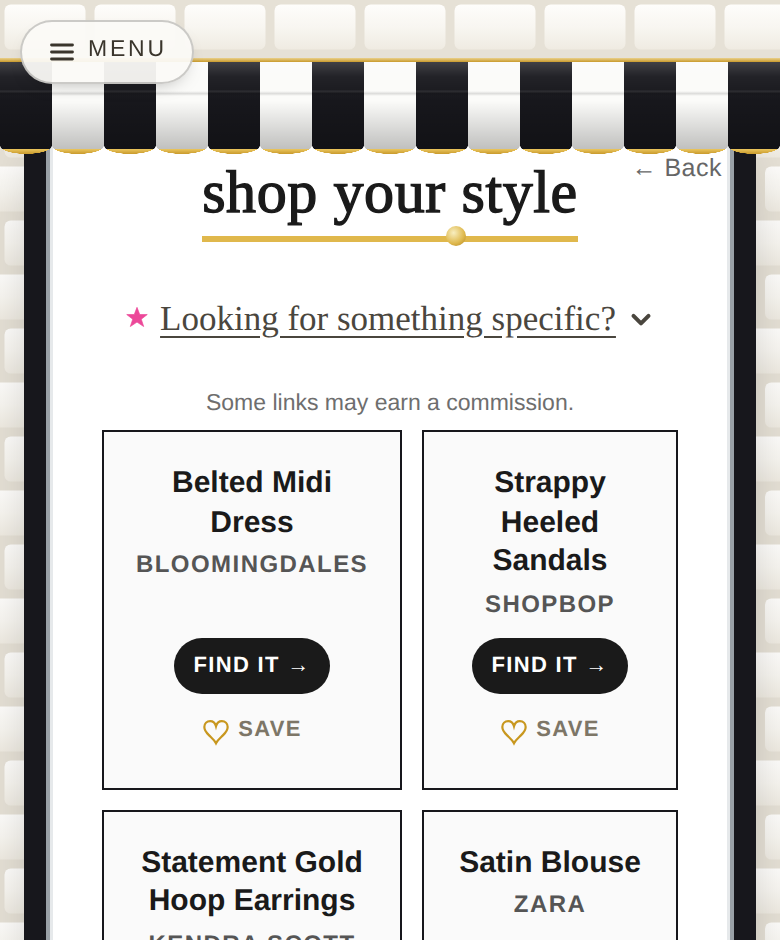
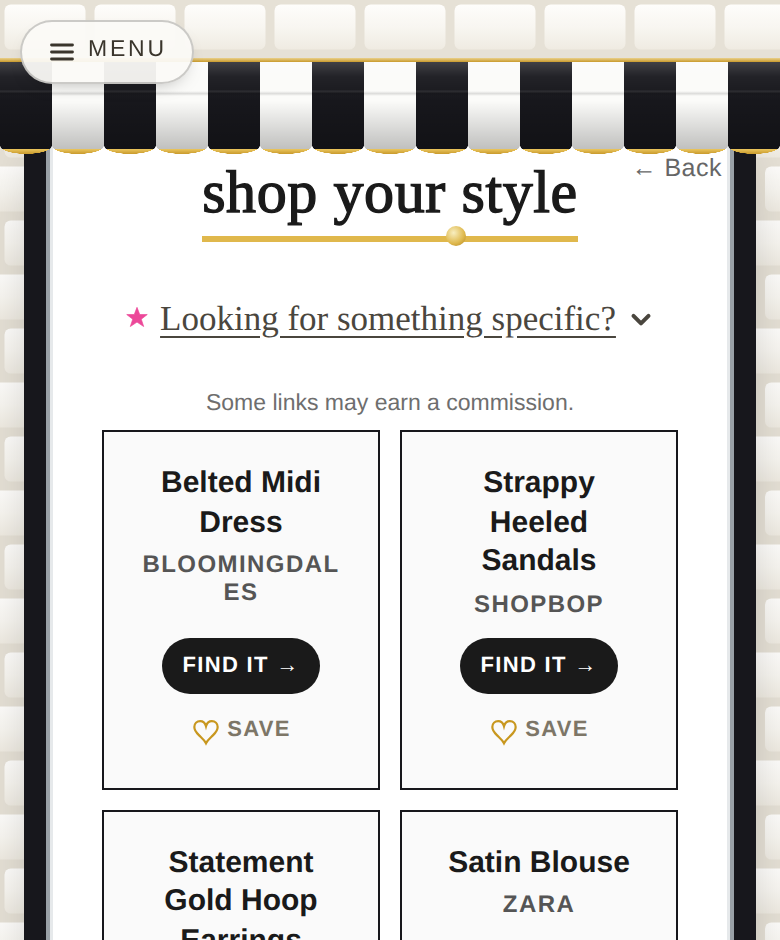
The shop cards are the same width now
Her catch, 2026-08-22: "the two rows of windows are not symmetrical sizing, the
left boxes are larger than the ones on the right."

She was right and it was bigger than it looked. MEASURED before touching
anything: the left column ran 150px against 112.5 to 128px on the right, a 22 to
37.5px difference at EVERY phone width.

CAUSE: .shop-grid used `grid-template-columns:1fr 1fr`, and a bare 1fr carries an
automatic minimum of AUTO. So a column holding a long unbreakable word
(BLOOMINGDALES, "Statement Gold Hoop Earrings") grows past its share and takes
the difference out of its neighbour. minmax(0,1fr) makes the share the real
limit. Now 0.0px difference at 390/375/360/320.

⚠ A REAL LIMIT INTRODUCES A REAL RISK, so it was checked rather than assumed:
once a column can no longer grow, a long retailer name would simply OVERFLOW the
card instead of pushing it wider. .shop-card gets overflow-wrap:anywhere and a
sweep asserts nothing sticks out of its own card, and no sideways page scroll, at
all four widths.

⚠ .shop-grid is SHARED with Complete the Look and the wardrobe Ideas carousels,
so this is not a Shop-your-style-only change. The wardrobe's hscroll variant
overrides display:flex and is unaffected by the columns; the wrap rule is
harmless there. Suites covering those surfaces run green: shopask 87, curated 65,
affq 40, e2e 29.

Still not wired, awaiting her pick: the arrow on "Looking for something specific?"
[…]

diff --git a/index.html b/index.html
@@ -1150,7 +1150,17 @@ html.edit-velvet,html.edit-velvet body{background:#0E7F8C}
 .shop-section{margin:1.5rem 0;text-align:center}
 .shop-title{font-size:20px;font-weight:700;color:#1a1a1a;margin-bottom:4px;font-family:'DM Sans',sans-serif}
 .shop-sub{font-size:15px;color:#444;margin-bottom:1rem;font-weight:500}
-.shop-grid{display:grid;grid-template-columns:1fr 1fr;gap:10px}
+/* ⚠ minmax(0,1fr), NOT 1fr. Her catch 2026-08-22: "the two rows of windows are
+   not symmetrical sizing, the left boxes are larger than the ones on the right."
+   Measured: the left column ran 150px against 112.5px on the right, at every
+   phone width. A bare 1fr carries an automatic minimum of AUTO, so a column
+   holding a long unbreakable word (BLOOMINGDALES) grows past its share and
+   steals the difference from its neighbour. minmax(0,1fr) makes the share the
+   real limit and the words wrap instead. Don't simplify it back. */
+.shop-grid{display:grid;grid-template-columns:minmax(0,1fr) minmax(0,1fr);gap:10px}
+/* ...and with a real limit, a long retailer name must be allowed to break or it
+   would simply overflow the card it no longer fits. */
+.shop-card{overflow-wrap:anywhere}
 .shop-card{background:#fafafa;border:1px solid #ebebeb;border-radius:14px;padding:1rem;text-align:center;display:flex;flex-direction:column;justify-content:space-between;min-height:140px}
 /* PANES IN A SHOP WINDOW — her reading of this screen, 2026-08-21, and it is what
    decides the colour: "I am keeping in mind it actually looks like a store window.
